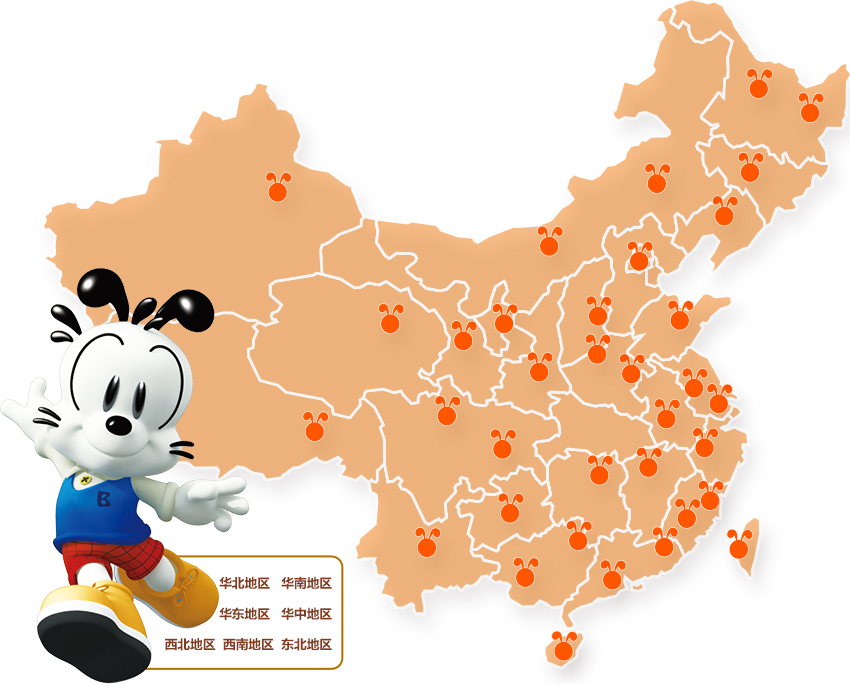
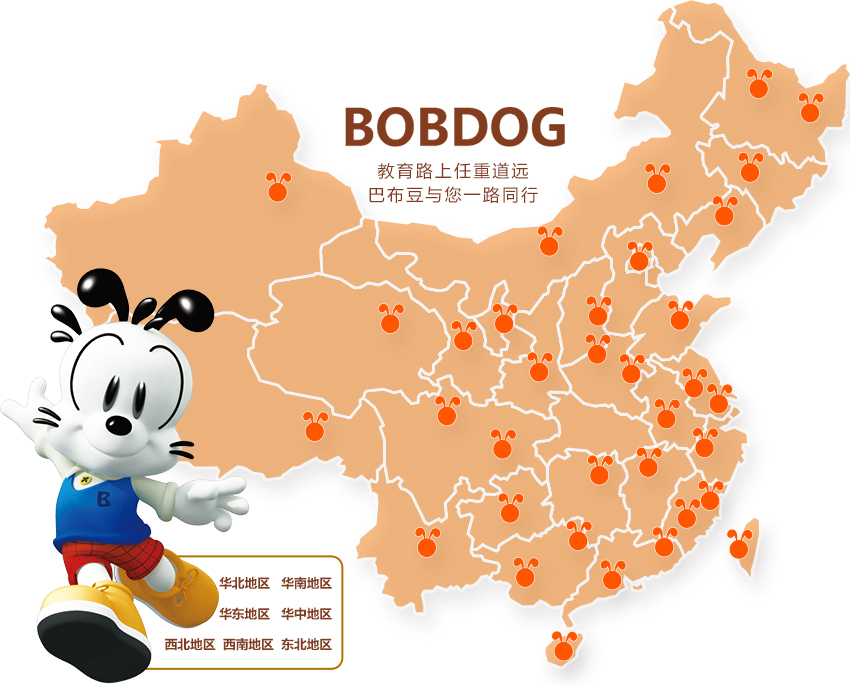
12

diff --git a/theme/cn/style.css b/theme/cn/style.css
@@ -759,17 +759,18 @@ input[type='number']::-webkit-inner-spin-button{-webkit-appearance: none}
 /*巴布豆家庭早教 start */
 .early_education img{width:100%;height:100%;}
 .brand{width:10.0rem;height:4.2732rem;}
-.early_education_module{width:8.4488rem;margin:0 auto;}
-.early_education_introduce,.business_cooperation_introduce{position: relative;width:8.4488rem;height:3.4146rem;}
-.introduce{position: absolute;right:0;top:-0.1951rem;width:2.0683rem;height:3.6098rem;background:#D9691D;color:#FDFDFD;text-align: center;padding-top: 0.2927rem;box-sizing: border-box;overflow: hidden;}
+/*.early_education_module{width:8.4488rem;margin:0 auto;}*/
+.early_education_introduce,.business_cooperation_introduce{position: relative;}
+.early_education_introduce:after,.business_cooperation_introduce:after{content: '';display: block;clear: both;}
+.introduce{position: absolute;right:0;top:-0.1951rem;width:2.3805rem;height:4.2927rem;background:#D9691D;color:#FDFDFD;text-align: center;padding-top: 0.2927rem;box-sizing: border-box;overflow: hidden;}
 .business_cooperation_introduce .introduce{left:0;}
-.introduce h3{font-size: 0.2537rem;line-height: 0.3902rem}
-.introduce p{margin: 0.2927rem auto 0.1951rem;width:1.3659rem;height:auto;position: relative;text-align: left;font-size: 0.1561rem;}
-.business_cooperation_introduce .introduce p{margin-top: 0.4878rem;}
-.introduce p i{position: absolute;width:0.1756rem;height:0.1756rem;background:url('../../content/epaper/images/left_right_angle.png') no-repeat;background-size: 100% 100%;top:-0.078rem;left:-0.078rem;}
-.introduce p b{position: absolute;width:0.1756rem;height:0.1756rem;background:url('../../content/epaper/images/left_right_angle.png') no-repeat;background-size: 100% 100%;bottom:-0.078rem;right:-0.078rem;transform: rotate(180deg);}
-.introduce a{position: absolute;bottom:0.1951rem;left:0;width:100%;color:#fff;font-size: 0.2341rem;text-align: center;}
-.early_education_introduce>p,.business_cooperation_introduce>p{width:6.3805rem;height:3.4146rem;}
+.introduce h3{font-size: 0.3317rem;line-height: 0.4878rem}
+.introduce p{margin: 0.3902rem auto 0;width:1.4634rem;position: relative;text-align: left;font-size: 0.2341rem;}
+.business_cooperation_introduce .introduce p{margin-top:0.5854rem;}
+.introduce p i{position: absolute;width:0.1756rem;height:0.1756rem;background:url('../../content/epaper/images/left_right_angle.png') no-repeat;background-size: 100% 100%;top:-0.1366rem;left:-0.1366rem;}
+.introduce p b{position: absolute;width:0.1756rem;height:0.1756rem;background:url('../../content/epaper/images/left_right_angle.png') no-repeat;background-size: 100% 100%;bottom:-0.1366rem;right:-0.1366rem;transform: rotate(180deg);}
+.introduce a{position: absolute;bottom:0.2927rem;left:0;width:100%;color:#fff;font-size: 0.2927rem;text-align: center;}
+.early_education_introduce>p,.business_cooperation_introduce>p{width:7.6293rem;height:4.0976rem;}
 .business_cooperation_introduce>p{float: right;}
 /*巴布豆家庭早教 start */
 
@@ -778,13 +779,13 @@ input[type='number']::-webkit-inner-spin-button{-webkit-appearance: none}
 .education_bag{width:7.2683rem;margin:0 auto;}
 .education img,.education video{width:100%;height:auto;}
 .education iframe{width:100%;height:4.7317rem;}
-.education_explain{margin-top:0.5854rem;padding: 0.3902rem 0.1463rem 0.2927rem;line-height: 0.4878rem;font-size: 0.2927rem;color:#B7B2A9;border-top: 1px solid #E3E3E3;border-bottom: 1px solid #E3E3E3;}
+.education_explain{margin-top:0.5854rem;padding: 0.3902rem 0.1463rem 0.2927rem;line-height: 0.4878rem;font-size: 0.3122rem;color:#B7B2A9;letter-spacing:1px;border-top: 1px solid #E3E3E3;border-bottom: 1px solid #E3E3E3;}
 .education_explain span,.expert_explain p span{color:#807D78;}
 .age_division{margin-top:0.4878rem;}
 .edition_list{margin-top:0.5854rem;overflow: hidden;}
 .edition_list li{float:left;width:33.3333%;text-align: center;box-sizing: border-box;}
 .edition_list li img{width:2.4585rem;height:3.1707rem;}
-.education_explain h4{text-align: center;line-height: 0.4878rem;}
+.education_explain h4{text-align: center;line-height: 0.4878rem;font-size: 0.3512rem;}
 .education_explain p{margin-top: 0.4878rem;}
 .education_explain ul{margin-top:0.3902rem;}
 .education_explain li{margin-bottom: 0.2927rem}
@@ -807,8 +808,8 @@ input[type='number']::-webkit-inner-spin-button{-webkit-appearance: none}
 .expert_explain{margin-top: 0.5854rem;border-bottom: 1px solid #E9E9E9;}
 .expert_explain h4{width:3.122rem;height:0.4488rem;padding-top: 0.039rem;padding-left: 0.3902rem;color:#fff;font-size: 0.2927rem;background:#5FC04F;box-sizing: border-box;position: relative;}
 .expert_explain h4 i{position: absolute;width:0.2146rem;height:0.361rem;background: url('../../content/epaper/images/left_bottom_horn.png') no-repeat;background-size: 100% 100%;top:0;right:-0.2146rem;}
-.expert_explain p{padding:0.3902rem 0.1463rem;line-height: 0.4878rem;font-size: 0.3122rem;color:#B7B2A9;}
-.interest_explain,.learning_platform{color:#B7B2A9;font-size: 0.3317rem;line-height: 0.4878rem;padding-bottom: 0.3902rem;border-bottom:1px solid #E9E9E9;}
+.expert_explain p{padding:0.3902rem 0.1463rem;line-height: 0.4878rem;font-size: 0.3122rem;color:#B7B2A9;letter-spacing:1px;}
+.interest_explain,.learning_platform{color:#B7B2A9;font-size: 0.3122rem;letter-spacing:1px;line-height: 0.4878rem;padding-bottom: 0.3902rem;border-bottom:1px solid #E9E9E9;}
 .interest_explain h4,.learning_platform h4,.early_education_bag h4{line-height: 0.9756rem;color:#5CC156;text-align: center;font-size: 0.3512rem;}
 .interest_explain .app{margin:0.3902rem 0;text-align: center;line-height: 0.439rem;font-weight: bold;}
 .interest_explain p{padding-left:0.3415rem;}
@@ -816,7 +817,7 @@ input[type='number']::-webkit-inner-spin-button{-webkit-appearance: none}
 .interest_explain li i{display: inline-block;width:0.2634rem;height:0.2049rem;background:url('../../content/epaper/images/arrow.png') no-repeat;background-size: 100% 100%;}
 .learning_platform p{margin-top:0.4878rem;text-align: center;font-weight: bold;}
 .early_education_bag{padding-bottom: 0.4878rem;border-bottom: 1px solid #E9E9E9;}
-.early_education_bag li{margin-bottom: 0.8rem;position: relative;overflow: hidden;color:#B7B2A9;font-size: 0.3122rem;line-height: 0.439rem;}
+.early_education_bag li{margin-bottom: 0.8rem;position: relative;overflow: hidden;color:#B7B2A9;font-size: 0.3122rem;letter-spacing:1px;line-height: 0.439rem;}
 .early_education_bag li>p{float: left;width:2.761rem;}
 .early_education_bag li.light_disk>p{width:3.3073rem;}
 .early_education_bag li.flash_card>p{width:3.3756rem;}
@@ -837,28 +838,23 @@ input[type='number']::-webkit-inner-spin-button{-webkit-appearance: none}
 .more_attention{padding: 0 0.1463rem;color:#E93C15;}
 .more_attention h4{line-height: 1.0732rem;}
 .more_attention dl{margin: 0.4878rem auto 0;width:4.3902rem;}
-.more_attention dd{line-height: 0.4878rem;font-size: 0.2927rem}
+.more_attention dd{line-height: 0.4878rem;font-size: 0.3122rem}
 .more_attention dd p{width:100%;margin:0.7805rem 0;}
 .consulting_phone p{width:7.8049rem;margin: 0.5854rem auto;}
 .footer_logo{overflow: hidden;}
-.footer_logo p{width:6.5366rem;margin: 0 auto 1.561rem;}
+.footer_logo p{width:6.5366rem;margin: 0 auto 0.2927rem;}
 /* 家庭早教介绍 end */
 
 /* 商业合作 start */
 .business_cooperation img{width:100%;height:auto;}
 .spread_area{width:100%;padding-bottom: 0.5268rem;border-bottom: 1px solid #E3E3E3;}
-.bobdog{padding: 0.3317rem 0;border-bottom: 1px solid #E3E3E3;text-align: center;color:#843D1F;}
-.bobdog h3,.join_in h3{font-size:0.5854rem;margin-bottom: 0.1951rem;}
-.bobdog p{font-size: 0.2341rem;}
 .shop_cooperation,.strategic_resource_cooperation{color:#BCB7AF;border-bottom: 1px solid #E3E3E3;}
-.shop_cooperation h3,.strategic_resource_cooperation h3{line-height: 1.0146rem;text-align: center;font-size: 0.3512rem}
-.shop_cooperation p,.strategic_resource_cooperation p{line-height: 0.4878rem;font-size: 0.2732rem;}
+.shop_cooperation h3,.strategic_resource_cooperation h3{line-height: 1.0146rem;text-align: center;font-size: 0.3512rem;}
+.shop_cooperation p,.strategic_resource_cooperation p{line-height: 0.4878rem;font-size: 0.3122rem;letter-spacing:1px;}
 .cooperation{width:100%;margin:0.2927rem 0;}
-.join_in{color:#823B1E;margin-top:0.2927rem;text-align: center;}
-.join_in>b{font-size: 0.3122rem;}
-.addition_method{width:7.2195rem;margin:0.2927rem auto;line-height: 0.5366rem;font-size: 0.2927rem;text-align: left;position: relative;}
-.addition_method>b{font-size: 0.4878rem;}
-.two_dimension_code{position: absolute;right:0.078rem;bottom:0.078rem;width:0.8976rem;height:0.8976rem;}
+.contact_us{color:#823B1E;margin-top:0.3902rem;text-align: center;font-size: 0.4683rem;}
+.contact_us h3{font-size: 0.6829rem;}
+.two_dimension_code{width:1.561rem;height:1.561rem;margin:0.3902rem auto 0.1951rem;}
 /* 商业合作 end */
 
 /* 底部导航栏样式 start */

diff --git a/cn/business_cooperation.php b/cn/business_cooperation.php
@@ -35,10 +35,6 @@ include('inc.php');
                             <img src="../content/epaper/images/spread_area.jpg" alt="">
                         </p>
                     </div>
-                    <div class="bobdog">
-                        <h3>BOBDOG</h3>
-                        <p>教育路上任重道远，巴布豆与您一路同行</p>
-                    </div>
                     <div class="shop_cooperation">
                         <h3>线下门店加盟合作</h3>
                         <p>BOBDOG巴布豆，国际知名卡通品牌，专注为儿童设计，致力科技研发；高品位设计打造聚焦潮流的童品，产品涵盖服装、鞋类、配件各大类别，关爱呵护孩子的童年。</p>
@@ -55,17 +51,12 @@ include('inc.php');
                             <img src="../content/epaper/images/strategic_resource_cooperation.jpg" alt="">
                         </div>
                     </div>
-                    <div class="join_in">
-                        <h3>JOIN US</h3>
-                        <b>加盟巴布豆</b>
-                        <div class="addition_method">
-                            <p>通过改善家庭的育儿方式改善今天的孩子，改善明天的世界</p>
-                            <p>还在等什么？快来加盟巴布豆吧！</p>
-                            <b>400-885-8089</b>
-                            <div class="two_dimension_code">
-                                <img src="../content/epaper/images/more_attention.png" alt="">
-                            </div>
+                    <div class="contact_us">
+                        <h3>Contact US</h3>
+                        <div class="two_dimension_code">
+                            <img src="../content/epaper/images/contact_us.png" alt="">
                         </div>
+                        <b>400-885-8089</b>
                     </div>
                 </section>
             </section>

diff --git a/cn/early_education.php b/cn/early_education.php
@@ -41,7 +41,7 @@ include('inc.php');
                             <h3>家庭早教包</h3>
                             <p>
                                 <i></i>
-                                <span>巴布豆家庭早教包通过科学的方式，汇集两岸育儿专家，全力打造的一套系统、专业的家庭 早教方案。</span>
+                                <span>巴布豆家庭早教全力打造的一套系统、专业的家庭早教方案。</span>
                                 <b></b>
                             </p>
                             <a href="early_education_introduce.php">了解更多》</a>
@@ -53,7 +53,7 @@ include('inc.php');
                             <h3>商业合作</h3>
                             <p>
                                 <i></i>
-                                <span>BOBDOG巴布豆，国际知名卡通品牌，专注为儿童设计，致力科技研发；巴布豆家庭早教诚挚邀 请您,携手开展幼儿教 育广大商机！</span>
+                                <span>巴布豆家庭早教诚挚邀请您,携手开展幼儿教 育广大商机！</span>
                                 <b></b>
                             </p>
                             <a href="business_cooperation.php">了解更多》</a>

diff --git a/cn/early_education_introduce.php b/cn/early_education_introduce.php
@@ -297,11 +297,16 @@ include('inc.php');
                         			<dd>gogostar-bj(GoGo星球大本营)</dd>
                         			<dd>
                         				<p>
-                        					<img src="../content/epaper/images/more_attention.png" alt="">
+                        					<img src="../content/epaper/images/more_attention_01.png" alt="">
                         				</p>
                         			</dd>
                         			<dd>微信号2：</dd>
                         			<dd>gogostar-cn(GoGo星球)</dd>
+                                          <dd>
+                                                <p>
+                                                      <img src="../content/epaper/images/more_attention_02.png" alt="">
+                                                </p>
+                                          </dd>
                         		</dl>
                         	</div>
                         	<div class="consulting_phone">
